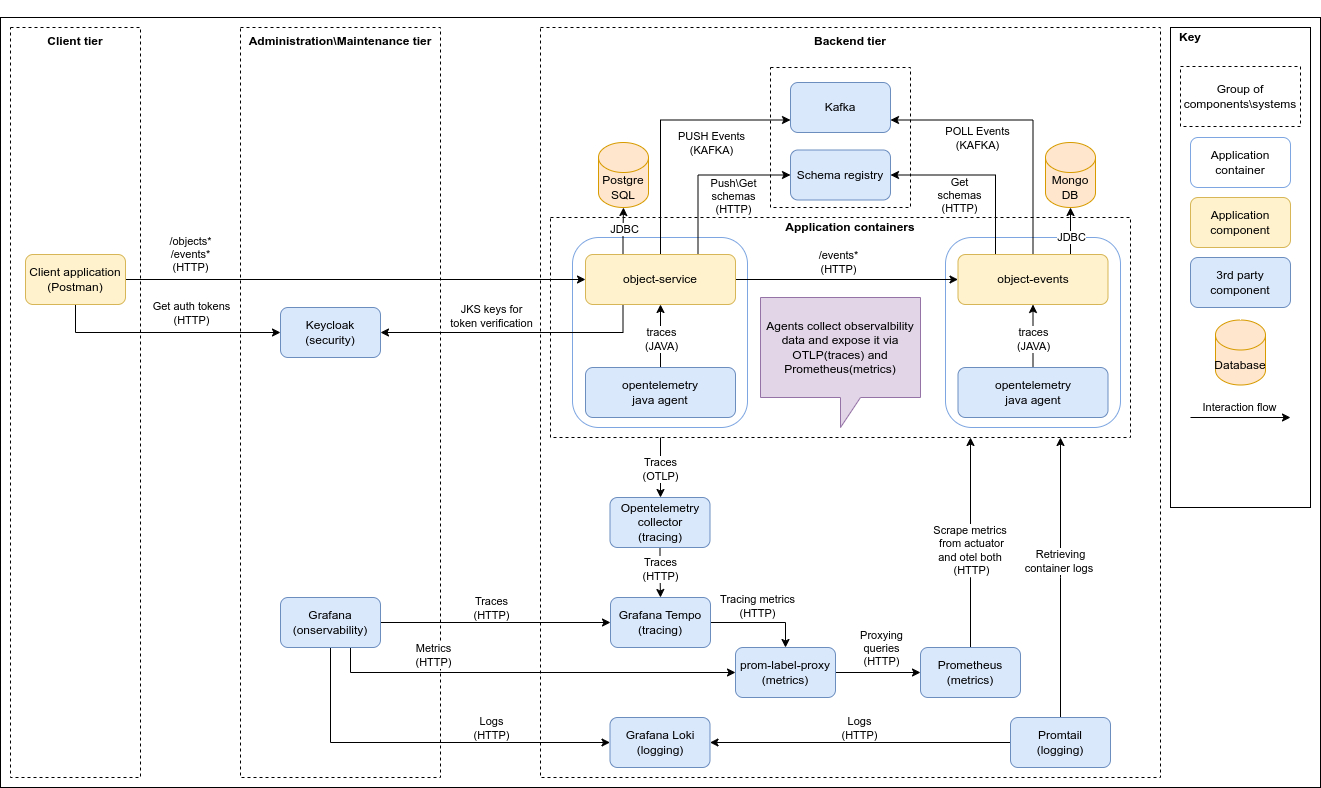
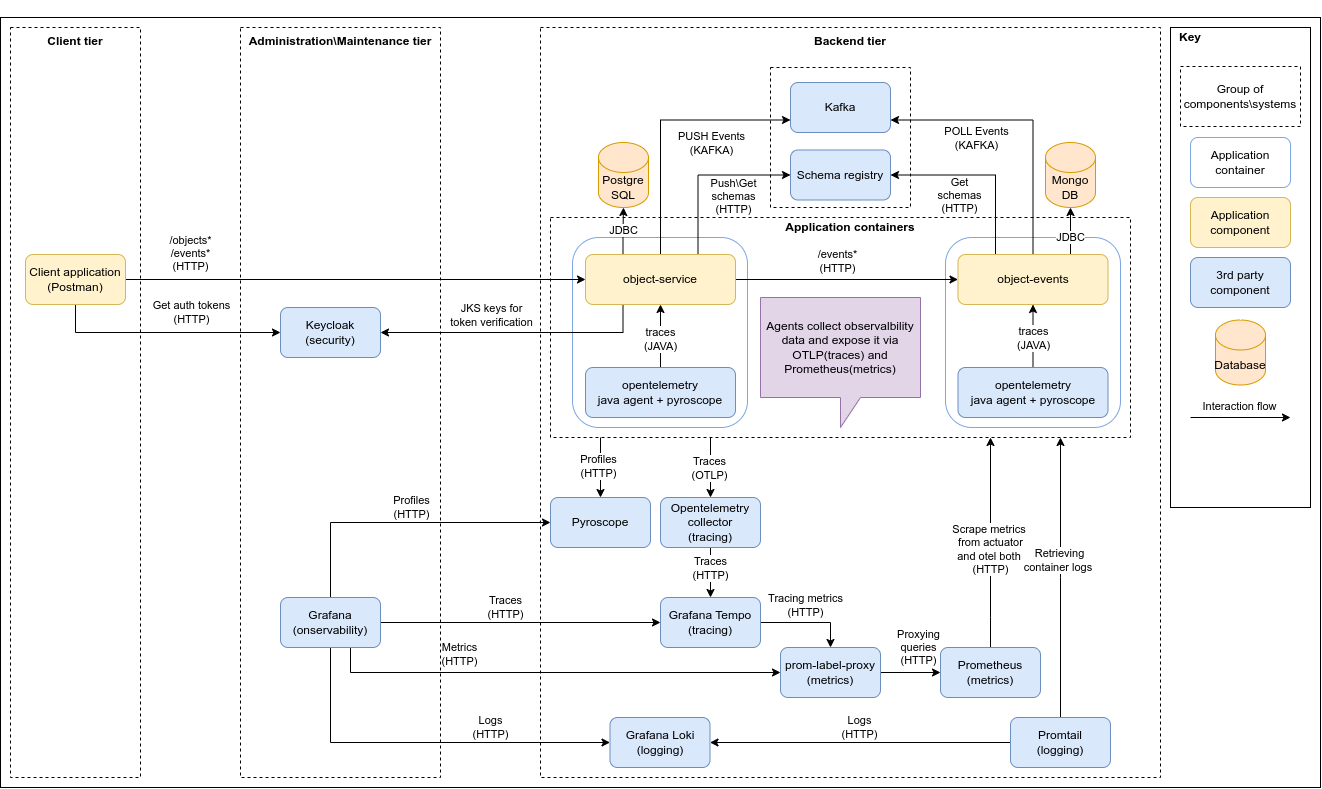
Added traces to profiles. Ingresses refactored. Documentation updated

diff --git a/readme.md b/readme.md
@@ -52,7 +52,7 @@ DocHub description is available via IntelliJ or VSCode Plugins and contains deta
 
 - OpenTelemetry + OTEL Collector + Custom agent extension for sampling
 - Prometheus
-- Grafana + Tempo + Loki
+- Grafana + Tempo + Loki + Pyroscope
 - Promtail
 
 ## Deployment instructions
@@ -75,12 +75,11 @@ Ensure minikube ingress addon is enabled by running:
 - Run ```./kubernetes/kubernetes-app-build-images.sh``` to build project artifacts
 - Ensure minikube is running. Use ```minikube dashboard``` to access web UI
 - Use ```./kubernetes/kubernetes-env-start.sh``` to setup project environment
-  and ```./kubernetes/kubernetes-env-stop.sh``` to clean it. Services are kept for redeployment purposes to avoid reconfiguring postman every time. Use ```kubernetes-env-full-cleanup.sh``` for full cleanup. 
+  and ```./kubernetes/kubernetes-env-stop.sh``` to clean it. Services are kept for redeployment purposes to avoid reconfiguring postman every time. Use ```kubernetes-env-full-cleanup.sh``` for full cleanup.
 - After environment is initialized use ```./kubernetes/kubernetes-app-start.sh``` to start services
   and ```./kubernetes/kubernetes-app-stop.sh``` to stop them.
-
-
-> Minikube IP can be obtained with ```minikube ip``` command
+- To access services and 3rd-party tools edit **/etc/hosts** with following value: 
+> {{minikube_ip}}	grafana.cluster.local keycloak.cluster.local adminer.cluster.local prometheus.cluster.local kafka-ui.cluster.local mongo-express.cluster.local object-service.cluster.local object-events.cluster.local
 
 ## Usage
 
@@ -88,11 +87,11 @@ Postman collection for services REST APIs [Sandbox API.postman_collection.json](
 
 ### Endpoints by default available at:
 
-- REST endpoints - http://MINIKUBE_IP/object-service
-- Postgres adminer - http://MINIKUBE_IP/adminer (admin:password)
-- Kafka UI - http://MINIKUBE_IP/kafka-ui
-- MongoDB Express - http://MINIKUBE_IP/mongo-express (admin:password)
-- Prometheus Graph - http://MINIKUBE_IP/prometheus/graph
-- Grafana - http://MINIKUBE_IP/grafana (admin:password)
-- Keycloak http://MINIKUBE_IP/keycloak (admin:password)
+- REST endpoints - http://object-service.cluster.local and http://object-events.cluster.local
+- Postgres adminer - http://adminer.cluster.local (admin:password)
+- Kafka UI - http://kafka-ui.cluster.local
+- MongoDB Express - http://mongo-express.cluster.local (admin:password)
+- Prometheus Graph - http://prometheus.cluster.local
+- Grafana - http://grafana.cluster.local (admin:password)
+- Keycloak http://keycloak.cluster.local (admin:password)
 
